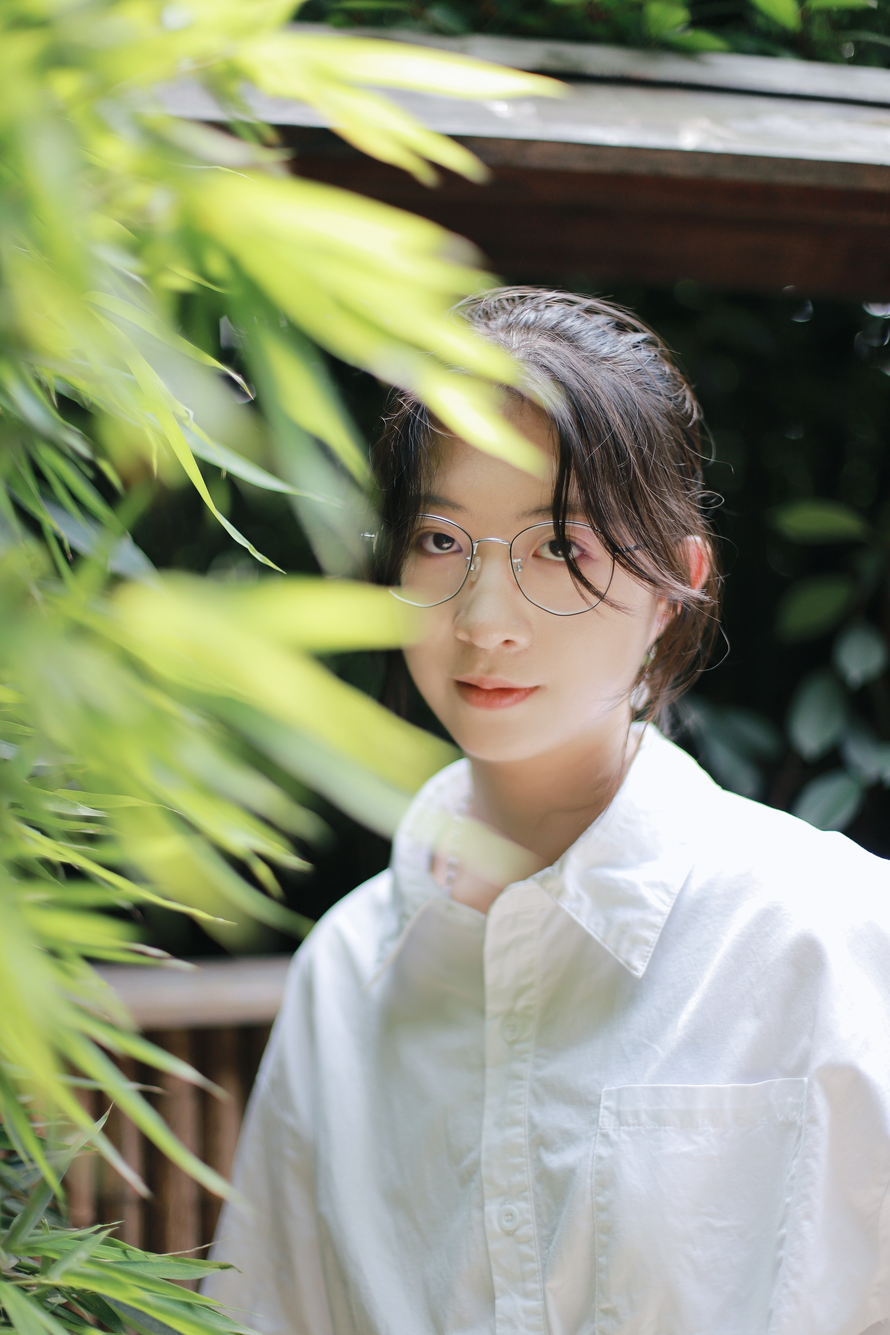
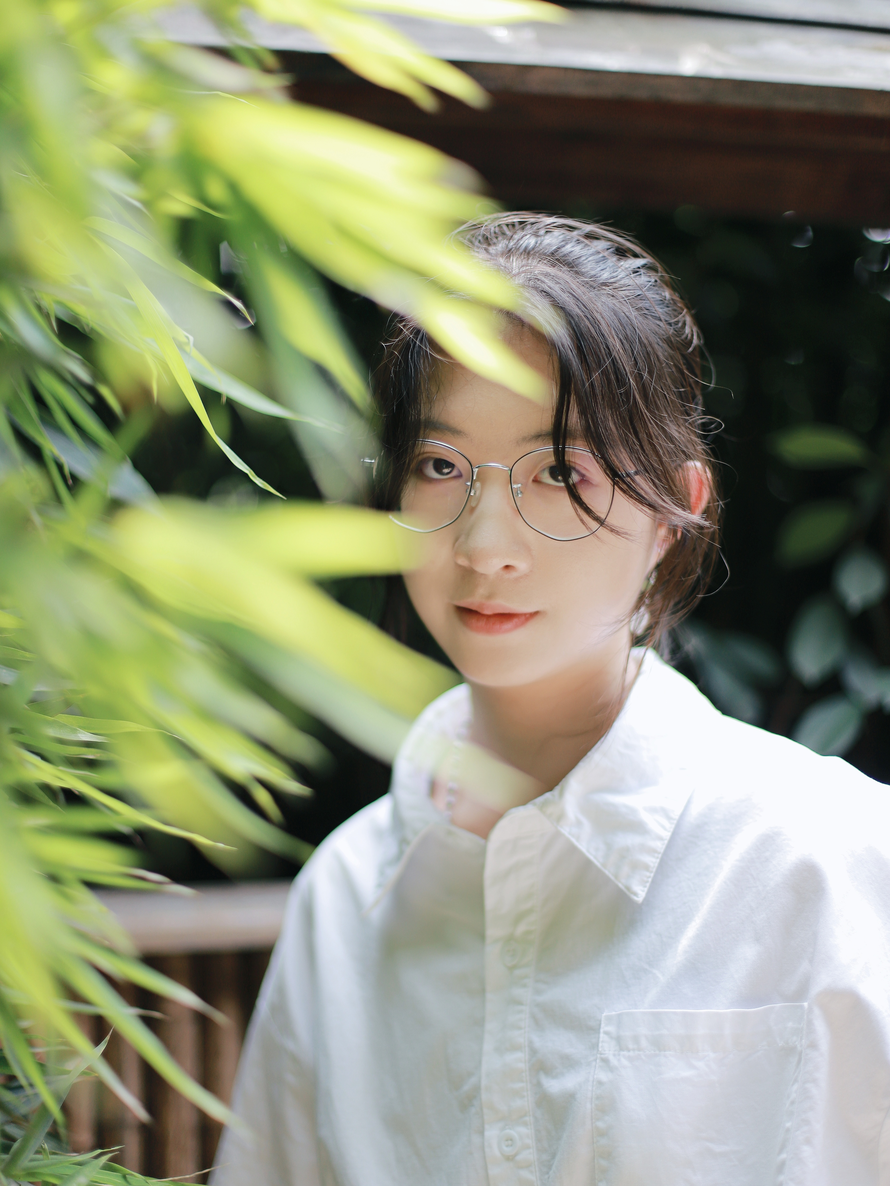
add image changes

diff --git a/index.html b/index.html
@@ -27,34 +27,35 @@
                             <div class="dropdown">
                                 <a class="home btn btn-outline-dark" href="index-projects.html" role="button">My
                                     Projects</a>
-                                 <a class="btn btn-outline-dark  dropdown-toggle" href="#" role="button" id="dropdownMenuLink" data-bs-toggle="dropdown" aria-expanded="false">
+                                <a class="btn btn-outline-dark  dropdown-toggle" href="#" role="button"
+                                    id="dropdownMenuLink" data-bs-toggle="dropdown" aria-expanded="false">
                                 </a>
-                              
+
                                 <ul class="dropdown-menu" aria-labelledby="dropdownMenuLink">
-                                  <li><a class="dropdown-item" href="game.html">Game Design &#38
-                                    Development</a></li>
-                                  <li><a class="dropdown-item" href="web.html">Web Design &#38
-                                    Development</a></li>
-                                  <li><a class="dropdown-item" href="project.html">Project Design
-                                    &#38 Development</a></li>
-                                  <li><a class="dropdown-item" href="graphics.html">Graphics</a></li>
-        
+                                    <li><a class="dropdown-item" href="game.html">Game Design &#38
+                                            Development</a></li>
+                                    <li><a class="dropdown-item" href="web.html">Web Design &#38
+                                            Development</a></li>
+                                    <li><a class="dropdown-item" href="project.html">Project Design
+                                            &#38 Development</a></li>
+                                    <li><a class="dropdown-item" href="graphics.html">Graphics</a></li>
+
                                 </ul>
-                              </div>
+                            </div>
                         </ul>
                     </div>
 
-                <div class="col-sm-6 py-3">
-                    <h4 class="text-dark text-lg-right">Contact Me by</h4>
-                    <ul class="list-unstyled">
-                        <li>
-                            <p class="text-dark text-lg-right">Email: lt1273@york.ac.uk / lingxuantian@foxmail.com
-                            </p>
-                        </li>
-                    </ul>
+                    <div class="col-sm-6 py-3">
+                        <h4 class="text-dark text-lg-right">Contact Me by</h4>
+                        <ul class="list-unstyled">
+                            <li>
+                                <p class="text-dark text-lg-right">Email: lt1273@york.ac.uk / lingxuantian@foxmail.com
+                                </p>
+                            </li>
+                        </ul>
+                    </div>
                 </div>
             </div>
-        </div>
         </div>
         <div class="navbar navbar-light bg-light shadow-sm position-relative">
             <div class="container">
@@ -71,14 +72,19 @@
     </header>
 
     <main>
-        <img src="image/coverName.png" class="img-fluid rounded cover" alt="Responsive image">
+        <img src="image/coverName.png" class="img-fluid rounded cover mx-auto d-block" alt="Responsive image">
 
         <div class="container">
             <h1 class="fw-light text-center text-white">About <span class="text-warning">ME</span></h1>
 
             <div class="row py-lg-3">
                 <div class="col-lg-4 col-md-4  mx-auto">
-                    <img src="image/Me/me.JPG" class="img-fluid rounded-end imgMe" alt="Responsive image">
+                    <div class="imageContainer">
+                        <img src="image/Me/me1.jpg" class="img-fluid rounded-end imgMe" alt="Responsive image">
+                        <div class="overlayImg">
+                            <img src="image/Me/me.JPG" class="img-fluid rounded-end imgMe" alt="Responsive image">
+                        </div>
+                    </div>
                 </div>
                 <div class="col-lg-6 col-md-6  mx-auto d-flex align-items-center">
                     <ul class="text-white align-middle">
@@ -90,7 +96,7 @@
                         <li>
                             <p class="lead text-white" style="--bs-text-opacity: .7;">Passionate about Chinese Opera
                                 and
-                                studied opera for over ten years.</p>
+                                studied opera for over 10 years.</p>
                         </li>
 
                         <li>

diff --git a/overlay.css b/overlay.css
@@ -18,6 +18,18 @@
   border-radius: 6px;
 }
 
+.overlayImg {
+  position: absolute;
+  top: 0;
+  bottom: 0;
+  left: 0;
+  right: 0;
+  height: 100%;
+  width: 100%;
+  opacity: 0;
+  transition: .5s ease;
+}
+
 .text {
   position: absolute;
   top: 50%;

diff --git a/multi.css b/multi.css
@@ -23,7 +23,7 @@ body {
   margin-top: 15vh;
 }
 
-@media (max-width: 770px) {
+@media (max-width: 766px) {
   strong {
     font-size: 0.78em;
   }
